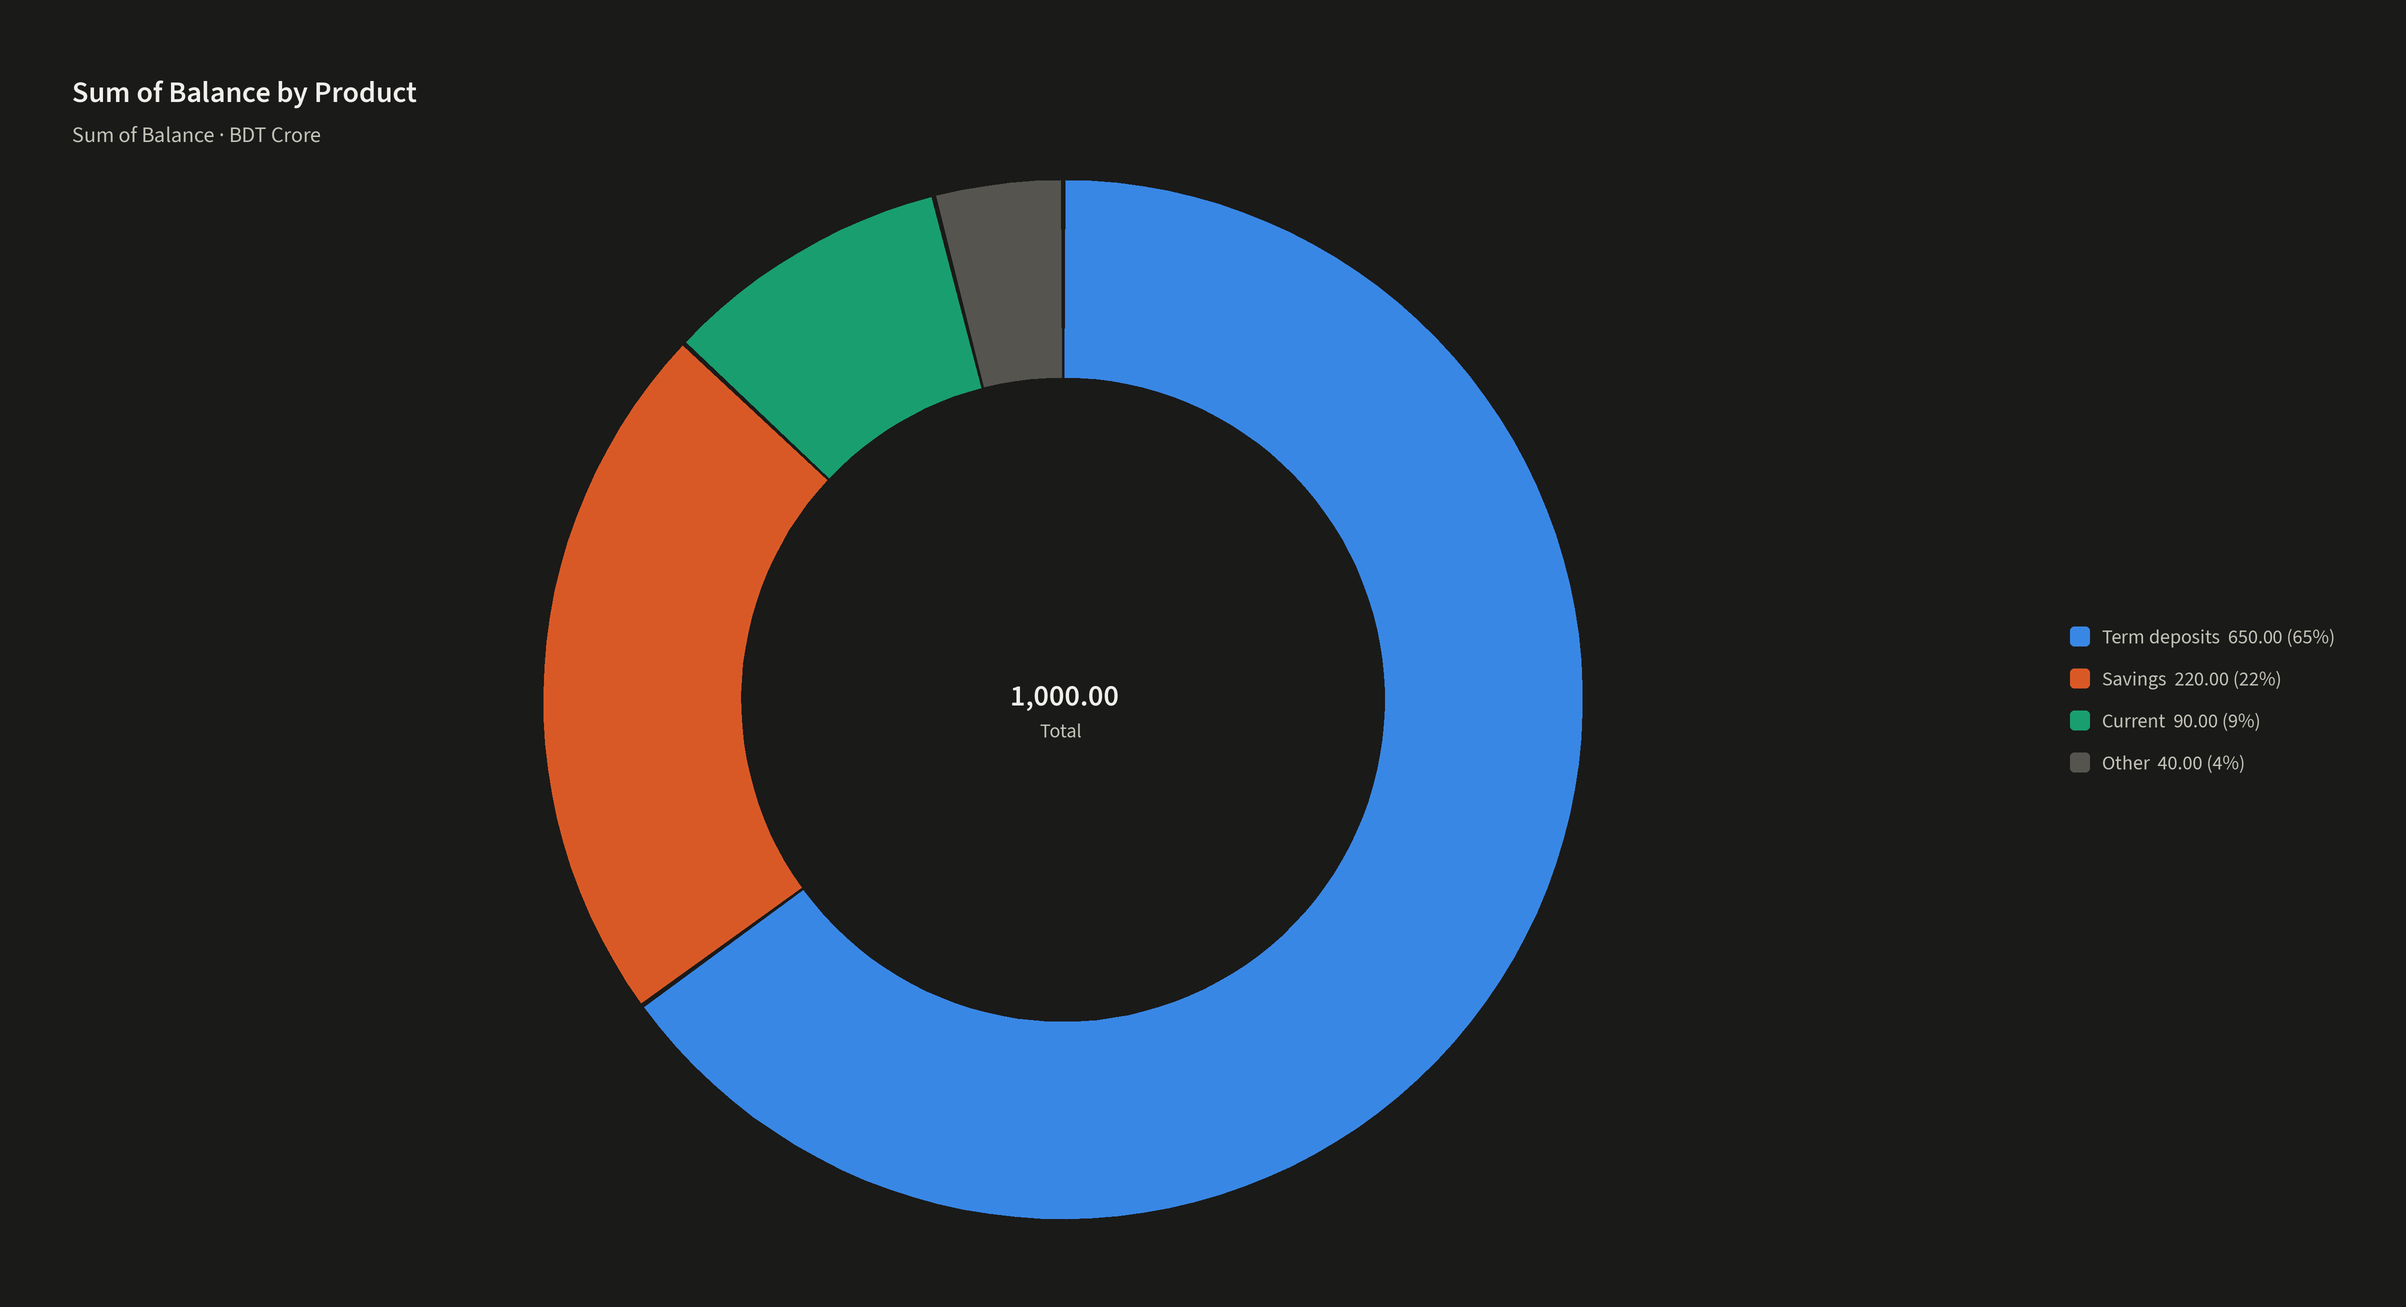
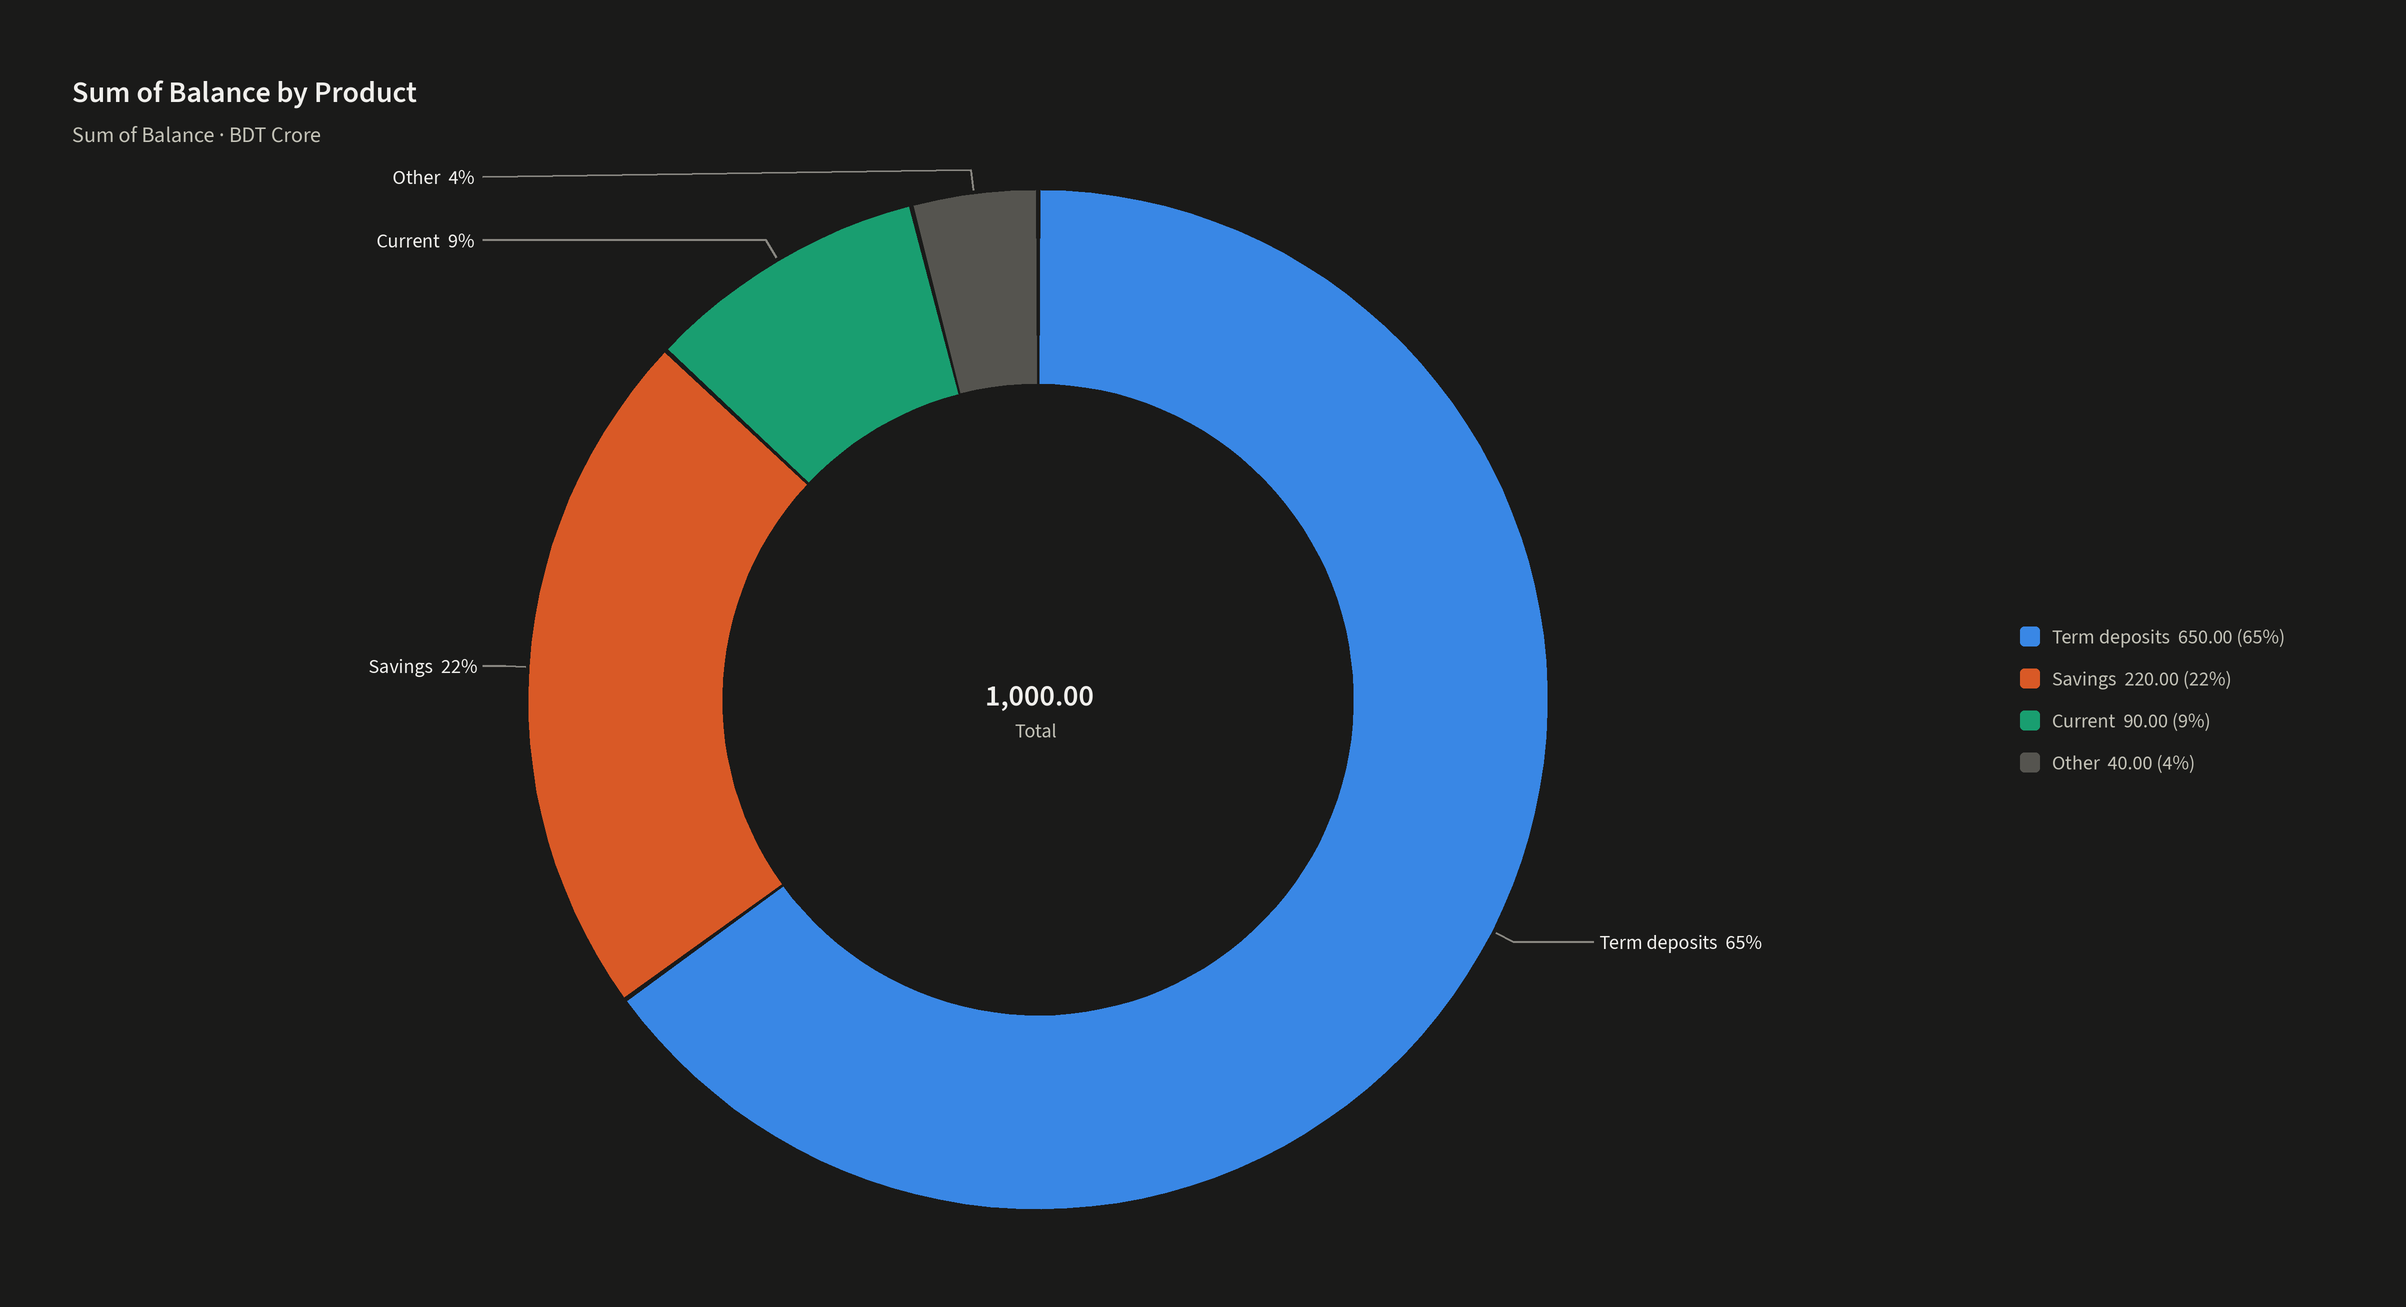
Phase 7 final fixes A
SVG saved from the page is valid XML (single-quoted font-family); every category keeps its label (full, two lines, angled 35 degrees) in all four renderers with a studio message and a one-click switch to horizontal bars; donut without the 5-part refusal (outside labels with leader lines, Group small parts, grey past the 8th colour); Reset colours; Text size; a chart tab exports to PDF as the chart (vector, embedded fonts) with an optional data table page.

Claude-Session: https://claude.ai/code/session_01JU2cpz5csXh6FUFCT75GMY

diff --git a/src/charts/spec.rs b/src/charts/spec.rs
@@ -582,7 +582,7 @@ impl ChartSpec {
     /// The settings that change the numbers (not the look): when they change the worker recalculates.
     pub fn calc_key(&self) -> String {
         format!(
-            "{:?}|{:?}|{:?}|{:?}|{:?}|{:?}|{}|{}|{:?}|{:?}|{:?}|{}|{:?}",
+            "{:?}|{:?}|{:?}|{:?}|{:?}|{:?}|{}|{}|{:?}|{:?}|{:?}|{}|{:?}|{:?}|{}",
             self.category,
             self.series,
             self.value,
@@ -596,7 +596,10 @@ impl ChartSpec {
             self.facet,
             // the point, histogram and box forms calculate their own tables; the other forms share one
             matches!(self.kind, ChartKind::Scatter | ChartKind::Bubble | ChartKind::Histogram | ChartKind::BoxPlot) as u8 * (1 + self.kind as u8),
-            self.bins
+            self.bins,
+            // a donut groups its small parts (and draws every part otherwise): the numbers change with it
+            self.donut_top,
+            (self.kind == ChartKind::Donut) as u8
         )
     }
 }

diff --git a/docs/phase7-spec.md b/docs/phase7-spec.md
@@ -390,4 +390,11 @@ Reply in no more than 30 lines: a table (Task | Status | Tests added | Deviation
   - Heatmaps: a zero or missing cell is the neutral fill (light: the gridline colour `#e1e0d9`; dark: `#2c2c2a`) with muted text, in all four renderers; the sequential ramp runs from the smallest value above zero to the largest (`tokens::heat_neutral`; replaces the "missing pair is the lightest step" of decision D1 and the lowest-cell rule of F1).
   - HTML line-end labels are the app's (names for 2 to 4 series, the value for one, name and value for a named single series); deposit-mix colours are pinned by product name; a `single` panel's ratio must be equal across series; a change that shows as 0.0 says "unchanged", never "+0.0" or "\u22120.0"; the guide's NII numbers say how the title rounds.
   - Data labels (Charts \u25b8 Titles and look): Labels Auto / All / Ends only / None, Label decimals (0\u20134, default the view's), Label unit (As in view, Absolute, Thousand, Lakh, Million, Crore) and Percent labels on/off. Stored in `ChartSpec.labels` (`#[serde(default)]`, old charts load unchanged). It applies to bars and columns (single, grouped, stacked), lines and areas, waterfalls, heatmap cells and the donut's legend; scatter, histogram, box plot, Sankey and treemap have no value labels to control. "All" never prints a label that collides: the app's layout leaves such labels out and counts them; the page, the workbook and the script leave out the same ones (worked out at 1,060 px, 720 px and 1,000 px) and every renderer says "N data labels left out where they would overlap" under the chart. A label unit that differs from the view's is stated under the chart ("Data labels are in Lakh"). In the workbook a waterfall carries no data labels and heatmap cell numbers are the data, so Labels and Percent apply to the others.
+- Owner decisions on the final fixes of PR #13 (Session F), part A:
+  - The chart page's font-family uses single quotes (`'Source Sans 3', 'Segoe UI', …`): ECharts writes it into `style="…"` attributes, where double quotes made the saved SVG invalid XML. Tested by a real click on Save as SVG for every form, light and dark, parsed with `DOMParser` and python's `xml.etree`.
+  - Category labels are never skipped, cut or hidden, in all four renderers: the full text when it fits its slot, else the long ones on two lines (at a space), else every label angled 35° (`charts::catlabels`, one rule). The app, page, script and workbook use the same plan at their nominal widths. When even angled labels run into each other (or a plot would have no room), the chart says so and the studio shows "Labels don't fit; try horizontal bars." with a one-click switch. Excel: rust_xlsxwriter 0.79 writes a label interval only above 1, so the workbook cannot be told "skip none"; it sets the 35° rotation explicitly and leaves Excel's own fit for full and two-line labels.
+  - Donut: the 5-part refusal is removed (replaces the C1/C2 acceptance "a donut with 6 parts is refused"). Every part is drawn; "Group small parts" (Off, or Top N + Other, N 2–12, default 4) is `ChartSpec.donut_top`. Labels sit outside the ring with leader lines ("HC  64%"), a part under 1% has no ring label (it stays in the legend and tooltip), labels never overlap (a label with no room stays out), parts past the 8th colour and "Other" are the de-emphasised grey. Excel puts the labels inside the slices (doughnut charts cannot do outside). With more than 6 parts the studio shows "Many parts are hard to compare; a sorted bar may read better".
+  - "Reset colours" (Titles and look) clears the stored colour map and reassigns the names in their current order.
+  - Text size (Small / Normal / Large / Larger = 0.9 / 1.0 / 1.15 / 1.3, `ChartSpec.text_size`) scales value labels, axis ticks, axis names and the legend in all four renderers; titles keep their size (`tokens::with_text_scale`).
+  - A chart tab exported to PDF writes the chart, not its table: vector drawing from the layout primitives through printpdf (no new crate), the embedded Source Sans 3 fonts, the page and heading of the export dialog; "Add the data table on the next page" (off by default) adds the table on the next page. The chart page is always the light chart.
 </accepted_deviations>

diff --git a/docs/phase7-progress.md b/docs/phase7-progress.md
@@ -155,3 +155,16 @@ Also found while looking at the Excel screenshots: the 100% stacked chart wrote 
 
 Part B deviations: E-3 the ECL summary tool does not emit a "Sample parameters" row (see part A); E-4 the Excel and Python collision handling uses the app's layout at the chart's nominal size, not a measurement of the finished workbook or figure; E-5 in the page, the last point of a several-series line carries its name (not also its value) in "All"; E-6 workbook waterfalls have no data labels and heatmap numbers are the cell values, so the Labels setting does not change them.
 E-7: Excel honours the workbook's "stop if true", so the neutral cells of a heatmap lose the colour scale there; LibreOffice, which made `xlsx-heatmap.png`, ignores that flag and shows only the muted text on the ramp's lightest fill. The workbook itself is correct (tested: the neutral rule comes first, stops, and has the neutral fill).
+
+## Session F: final fixes for PR #13, part A (items 1-6)
+
+| Item | What changed | Test |
+| --- | --- | --- |
+| 1 | `FONT_HTML` single-quoted; `tools/html_svg_click.js` parses the SVG as XML (`--dark`, `--svg-only`) and finds the toolbox icons by their drawn shapes | `s1_the_svg_from_a_real_click_is_well_formed_xml…` |
+| 2 | `charts::catlabels` (plan: Full / Wrapped / Angled), `LText.angle`, `ChartLayout.labels_dont_fit`, the studio message and switch, ECharts `interval 0` with `overflow break` or `rotate 35`, Python `cat_labels`, Excel rotation | `s2_every_category_keeps_its_label…` (lib), `s2_the_page_the_workbook_and_the_script…`, `s7_labels_that_do_not_fit…` (by clicks) |
+| 3 | Refusal removed; `donut_top`; outside labels with leader lines in the app, page and script; Excel labels inside; "Many parts" line; the donut grouping is part of the recalculation key | `s3_a_donut_draws_every_part…`, `s3_group_small_parts…`, `s3_the_page_the_workbook_and_the_script_draw_the_donut…`, `s7_…` |
+| 4 | "Reset colours" | `s8_reset_colours_and_text_size…` (by clicks) |
+| 5 | `TextSize`, `tokens::with_text_scale`; every form and template at Larger: no collision, no clipping | `s5_text_size_scales…`, `s8_…` |
+| 6 | `charts::pdf` (layout primitives to printpdf, embedded fonts, `PdfMeasure`), `PdfTab.chart`, `PdfOptions.chart_tables`, the dialog's tick box | `s6_a_chart_tab_in_a_pdf…` (pdftotext, pdffonts), `s8_…` |
+
+Part A deviations: F-1 the Excel label interval cannot be forced to 1 (see the spec); F-2 a breach label that finds no room stays in the tooltip (the ring is drawn) instead of being forced over another text, and the limit-ticks note shortens, then drops, in a very small chart with large text; F-3 an axis whose labels leave no room for the plot says "The chart is too small for its category labels…" instead of drawing nothing.
